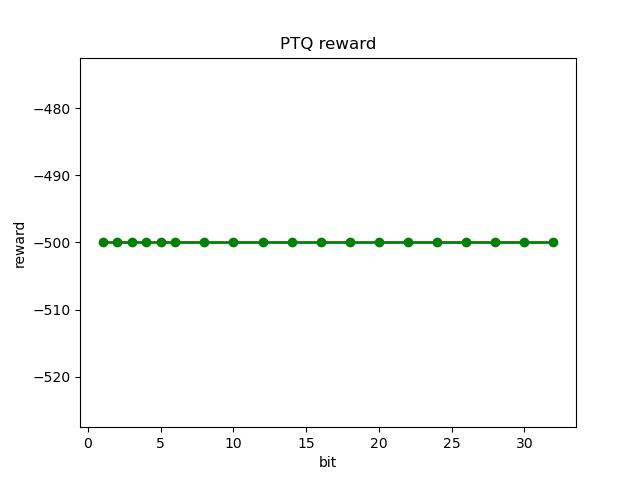
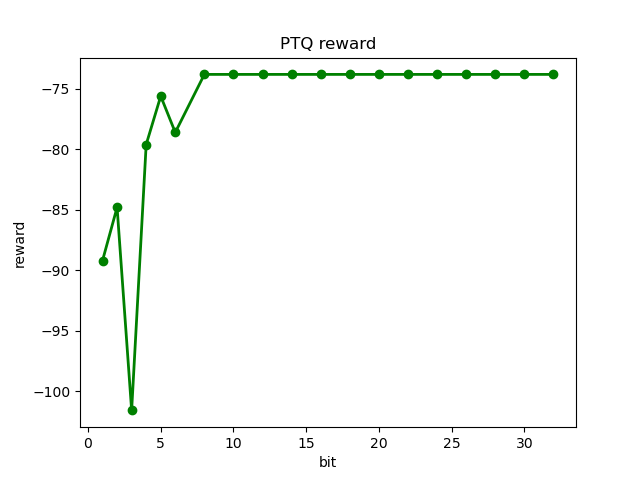
solved HERO problem in dqn.py

diff --git a/stable-baselines3/stable_baselines3/dqn/dqn.py b/stable-baselines3/stable_baselines3/dqn/dqn.py
@@ -1,4 +1,5 @@
 import warnings
+from types import NoneType
 from typing import Any, ClassVar, Dict, List, Optional, Tuple, Type, TypeVar, Union
 
 import numpy as np
@@ -230,34 +231,45 @@ class DQN(OffPolicyAlgorithm):
                                             momentum=momentum, weight_decay=weight_decay)
                 loss = F.smooth_l1_loss(current_q_values, target_q_values)
                 loss.backward(retain_graph=True)
-                # th.nn.utils.clip_grad_norm_(self.policy.parameters(), self.max_grad_norm)
+                th.nn.utils.clip_grad_norm_(self.policy.parameters(), self.max_grad_norm)
                 loss_grads = []
 
                 for index_param, param in enumerate(self.policy.parameters()):
+                    if isinstance(param.grad, NoneType):
+                        continue
                     loss_grads.append(param.grad.data.clone().detach())
 
                 self.policy.optimizer.first_step(zero_grad=True)
 
                 # second forward-backward step
+                # Get current new Q-values estimates
                 current_q_values_new = self.q_net(replay_data.observations)
+                # Retrieve the new q-values for the actions from the replay buffer
+                current_q_values_new = th.gather(current_q_values_new, dim=1, index=replay_data.actions.long())
                 loss_new = F.smooth_l1_loss(current_q_values_new, target_q_values)
                 criterion_hero = th.nn.MSELoss()
                 hero_loss = 0.
                 loss_grads_new = th.autograd.grad(loss_new, self.policy.parameters(), retain_graph=True,
-                                                  create_graph=True)
+                                                  create_graph=True, allow_unused=True)
                 loss_grads_copy = []
                 for index, grad in enumerate(loss_grads_new):
+                    if isinstance(grad, NoneType):
+                        continue
                     loss_grads_copy.append(grad.data.clone().detach())
 
                 # compute the Hessian-related loss
                 for index_param, (name, param) in enumerate(self.policy.named_parameters()):
-                    if 'bias' not in name and 'bn' not in name:
+                    # if 'bias' not in name and 'bn' not in name:
+                    if 'q_net_target' not in name and 'bias' not in name:
                         for index, (grad, grad_copy) in enumerate(zip(loss_grads, loss_grads_new)):
                             if index_param == index:
                                 if grad != None and grad_copy != None:
                                     hero_loss += self.lambda_hero * criterion_hero(grad_copy, grad)
                 hero_loss.backward()
+                th.nn.utils.clip_grad_norm_(self.policy.parameters(), self.max_grad_norm)
                 for index_param, (param, grad) in enumerate(zip(self.policy.parameters(), loss_grads_copy)):
+                    if isinstance(grad, NoneType):
+                        continue
                     param.grad += grad
                 self.policy.optimizer.second_step(zero_grad=True)
 
@@ -284,7 +296,7 @@ class DQN(OffPolicyAlgorithm):
                 # th.nn.utils.clip_grad_norm_(self.policy.parameters(), self.max_grad_norm)
                 self.policy.optimizer.second_step(zero_grad=True)
 
-            else:  # base(vanilia)
+            else:  # base(vanilla)
                 # original backpropagation (originate from stable baselines3)
                 # Compute Huber loss (less sensitive to outliers)S
                 loss = F.smooth_l1_loss(current_q_values, target_q_values)

diff --git a/HERO/sam.py b/HERO/sam.py
@@ -19,7 +19,7 @@ class SAM(torch.optim.Optimizer):
 
             for p in group["params"]:
                 if p.grad is None: continue
-                self.state[p]["old_p"] = p.data.clone()
+                self.state[p]["old_p"] = p.data.clone()  # self.state: save some middle variables in the update process
                 e_w = (torch.pow(p, 2) if group["adaptive"] else 1.0) * p.grad * scale.to(p)
                 p.data = p.data+e_w  # climb to the local maximum "w + e(w)"
                 #self.state[p]["e_w"] = e_w
